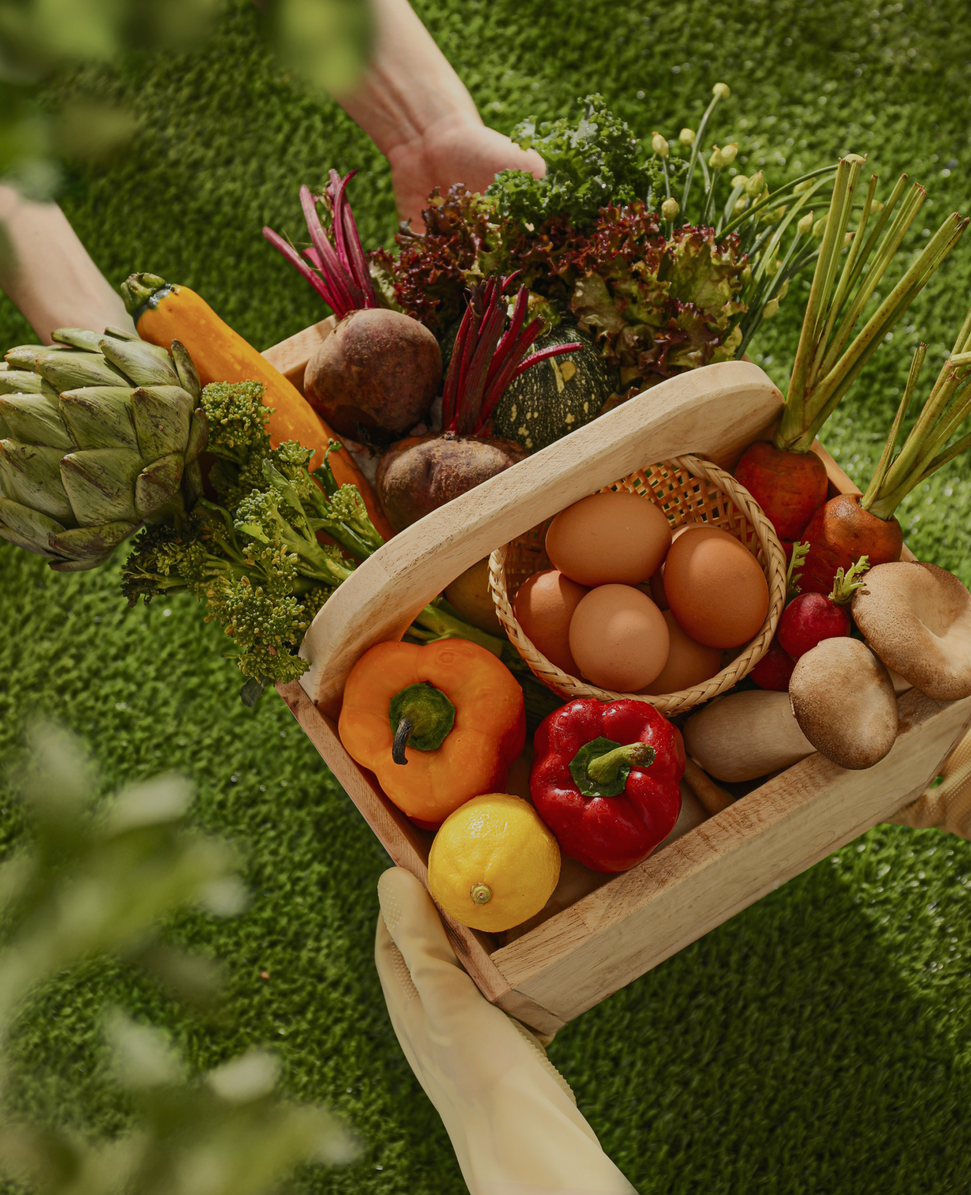
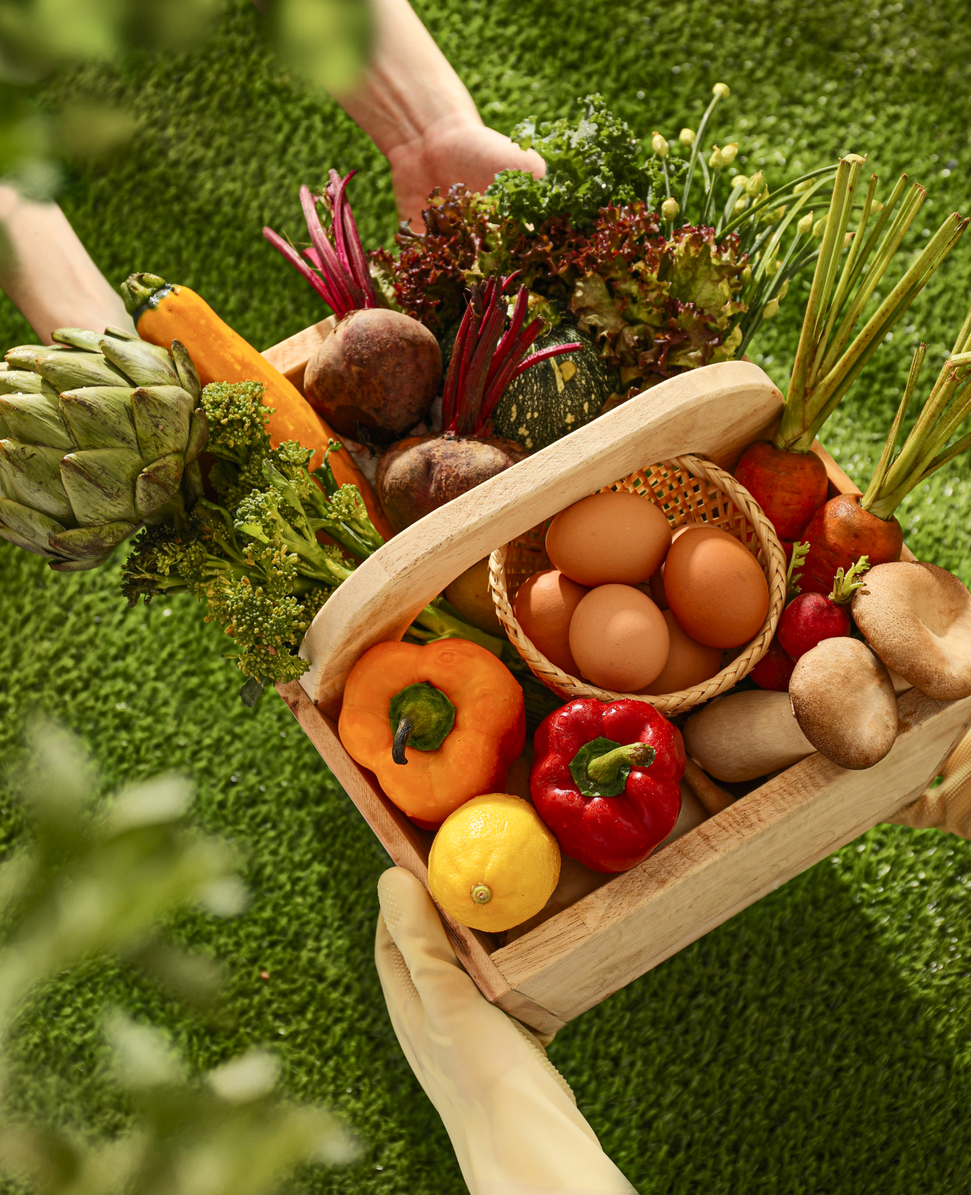
hero css
added image
added mob version
added table version
added desk version

diff --git a/src/css/hero.css b/src/css/hero.css
@@ -6,6 +6,7 @@ letter-spacing: -0.01em;
 text-transform: uppercase;
 margin-bottom: 20px;
 color: #fbfbfb;
+max-width: 335px;
 }
 
 .hero-text {
@@ -13,4 +14,55 @@ color: #fbfbfb;
     font-size: 14px;
     line-height: 129%;
     color: #fbfbfb;
+    margin-bottom: 40px;
+    max-width: 335px;
 }
+
+.hero-image {
+    background-image: linear-gradient(rgba(20, 20, 20, 0.2), rgba(20, 20, 20, 0.2)), url(/src/img/hero-images/hero.jpg);
+}
+
+@media screen and (min-resolution: 192dpi), (min-resolution: 192dppx) {
+    .hero-image {
+        background-image: linear-gradient(rgba(20, 20, 20, 0.2), rgba(20, 20, 20, 0.2)), url(/src/img/hero-images/hero-2x.jpg);
+    }
+  }
+  
+
+  @media screen and (min-width: 375px) {
+    .container {
+        width: 375px;
+    }
+  }
+
+  @media screen and (min-width: 768px) {
+    .container {
+        width: 768px;
+    }
+
+    .hero-image {
+        background-image: linear-gradient(rgba(20, 20, 20, 0.2), rgba(20, 20, 20, 0.2)), url(/src/img/hero-images/hero-tablet.jpg);
+    }
+    
+    @media screen and (min-resolution: 192dpi), (min-resolution: 192dppx) {
+        .hero-image {
+            background-image: linear-gradient(rgba(20, 20, 20, 0.2), rgba(20, 20, 20, 0.2)), url(/src/img/hero-images/hero-tablet2x.jpg);
+        }
+      }
+  }
+
+  @media screen and (min-width: 1280px) {
+    .container {
+        width: 1280px;
+    }
+
+    .hero-image {
+        background-image: linear-gradient(rgba(20, 20, 20, 0.2), rgba(20, 20, 20, 0.2)), url(/src/img/hero-images/hero-desc.jpg);
+    }
+    
+    @media screen and (min-resolution: 192dpi), (min-resolution: 192dppx) {
+        .hero-image {
+            background-image: linear-gradient(rgba(20, 20, 20, 0.2), rgba(20, 20, 20, 0.2)), url(/src/img/hero-images/hero-desc2x.jpg);
+        }
+      }
+  }
